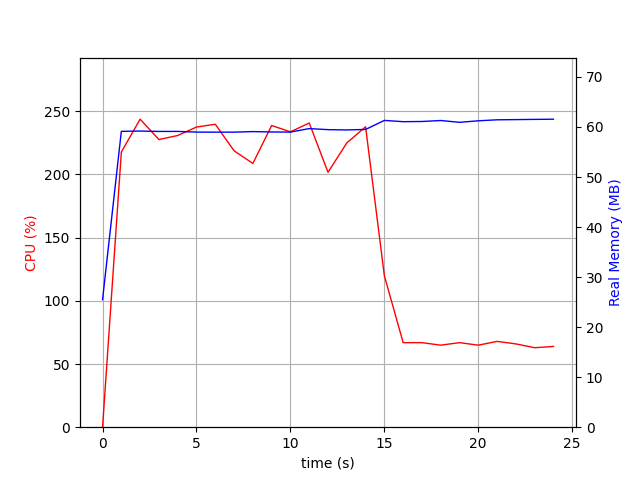
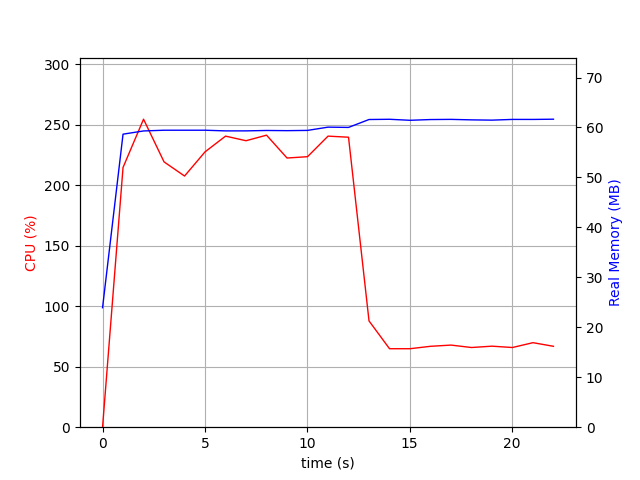
Fix bug in time counting of C#. Update all benchmark data

diff --git a/rust/src/main.rs b/rust/src/main.rs
@@ -6,10 +6,18 @@ use mongodb::{
 
 use std::thread;
 use std::time::{Instant};
+use serde::{Deserialize, Serialize};
 
 const BATCH_SIZE:u32 = 1000;
 const DB_NAME:&str = "test";
 const COLLECTION_NAME:&str = "rust";
+
+
+#[derive(Debug, Serialize, Deserialize)]
+struct Book {
+    title: String,
+    author: String,
+}
 
 fn main() {
     let uri = "mongodb://localhost:27017";
@@ -19,7 +27,7 @@ fn main() {
 
     let client = Client::with_uri_str(uri).unwrap();
     let database = client.database(DB_NAME);
-    let collection = database.collection(COLLECTION_NAME);
+    let collection = database.collection::<Book>(COLLECTION_NAME);
 
     collection.drop(None).unwrap();
 
@@ -70,14 +78,10 @@ fn main() {
     let mut total_chars = 0;
     // Iterate over the results of the cursor.
     for result in cursor {
-        match result {
-            Ok(document) => {
-                let title = document.get("title").and_then(Bson::as_str).unwrap();
-                let author = document.get("author").and_then(Bson::as_str).unwrap();
-                total_chars = total_chars + title.len() + author.len();
-            }
-            Err(e) => println!("{:?}", e),
-        } 
+        let book = result.unwrap();
+        let title = book.title;
+        let author = book.author;
+        total_chars = total_chars + title.len() + author.len(); 
     }
 
     println!("Total chars: {:?}", total_chars);

diff --git a/dotnet/mongobenchmark/Program.cs b/dotnet/mongobenchmark/Program.cs
@@ -62,7 +62,7 @@ namespace mongobenchmark
             stopWatch.Stop();
             Console.WriteLine("Insert time " + stopWatch.ElapsedMilliseconds);
 
-            stopWatch.Start();
+            stopWatch.Restart();
             // Query documents
             var options = new FindOptions { BatchSize = 1000 };
             var filter = Builders<BsonDocument>.Filter.Eq("author", "Isaac Asimov");
